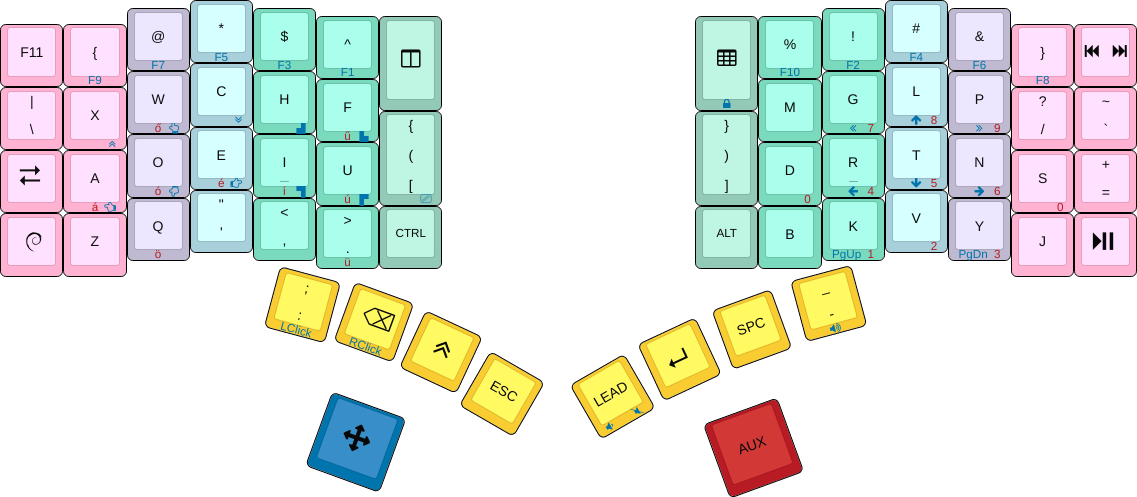
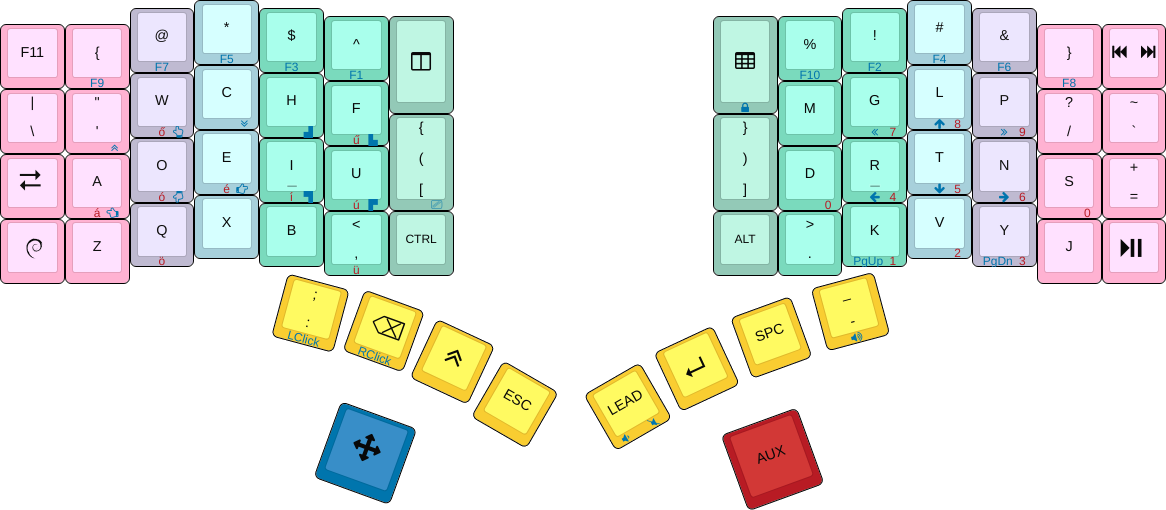
Rearrange a few keys on the ADORE layer
Because my pinkies do not like reaching the row above the home row, move X from
there to the bottom row, swapping it with Quote.

Furthermore, because I want to move my index fingers less, move B to the left
side, to where Comma used to be, which shifted one key to the right, knocking
Period over to the right side, where B used to be.

The idea is that Comma and Period being on different hands will lead to better
alteration, and B being below the home position will mean less index finger
movement to reach it.

diff --git a/src/keymap.h b/src/keymap.h
@@ -84,18 +84,18 @@ const Key keymaps[][ROWS][COLS] PROGMEM = {
 
   [_ADORE] = KEYMAP_STACKED
   (
-    TD(F11)       ,Key_LCB ,Key_AT ,Key_STAR  ,Key_DOLLR ,Key_CARET  ,TD(TMUX)
-   ,Key_Backslash ,Key_X   ,Key_W  ,Key_C     ,Key_H     ,Key_F      ,TD(LPB)
-   ,Key_Tab       ,Key_A   ,Key_O  ,Key_E     ,Key_I     ,Key_U
-   ,TD(GUI)       ,Key_Z   ,Key_Q  ,Key_Quote ,Key_Comma ,Key_Period ,OSM(LeftControl)
+    TD(F11)       ,Key_LCB   ,Key_AT ,Key_STAR ,Key_DOLLR ,Key_CARET ,TD(TMUX)
+   ,Key_Backslash ,Key_Quote ,Key_W  ,Key_C    ,Key_H     ,Key_F     ,TD(LPB)
+   ,Key_Tab       ,Key_A     ,Key_O  ,Key_E    ,Key_I     ,Key_U
+   ,TD(GUI)       ,Key_Z     ,Key_Q  ,Key_X    ,Key_B     ,Key_Comma ,OSM(LeftControl)
 
    ,TD(COLON)  ,Key_Backspace ,OSM(LeftShift) ,Key_Escape
    ,OSL(_NAV)
 
-   ,TD(TMUXP)    ,Key_PRCNT ,Key_EXCLM ,Key_HASH ,Key_AND ,Key_RCB   ,TD(MNP)
-   ,TD(RPB)      ,Key_M     ,Key_G     ,Key_L    ,Key_P   ,Key_Slash ,Key_Backslash
-                 ,Key_D     ,Key_R     ,Key_T    ,Key_N   ,Key_S     ,Key_Equals
-   ,OSM(LeftAlt) ,Key_B     ,Key_K     ,Key_V    ,Key_Y   ,Key_J     ,Key_PlayPause
+   ,TD(TMUXP)    ,Key_PRCNT  ,Key_EXCLM ,Key_HASH ,Key_AND ,Key_RCB   ,TD(MNP)
+   ,TD(RPB)      ,Key_M      ,Key_G     ,Key_L    ,Key_P   ,Key_Slash ,Key_Backslash
+                 ,Key_D      ,Key_R     ,Key_T    ,Key_N   ,Key_S     ,Key_Equals
+   ,OSM(LeftAlt) ,Key_Period ,Key_K     ,Key_V    ,Key_Y   ,Key_J     ,Key_PlayPause
 
    ,LEAD(MAIN) ,Key_Enter ,Key_Spacebar ,Key_Minus
    ,OSL(_AUX)
